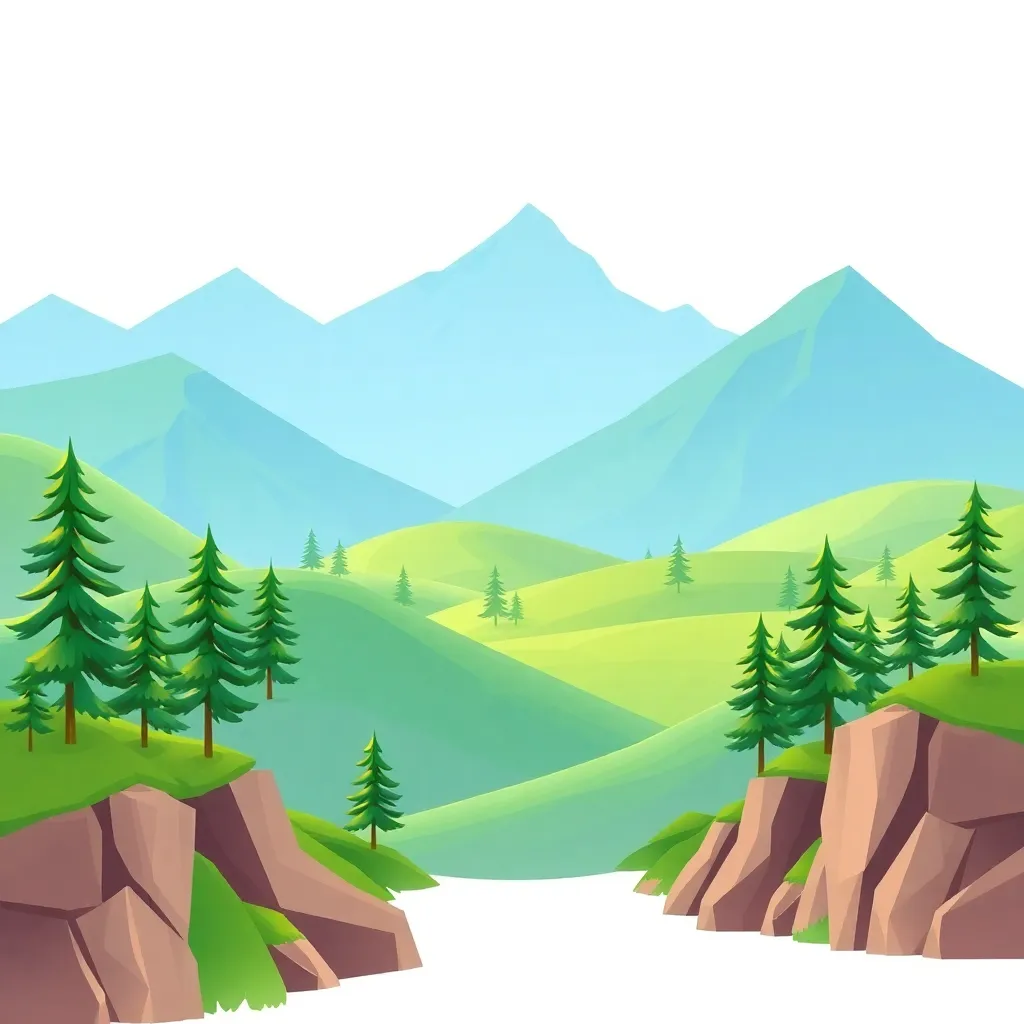
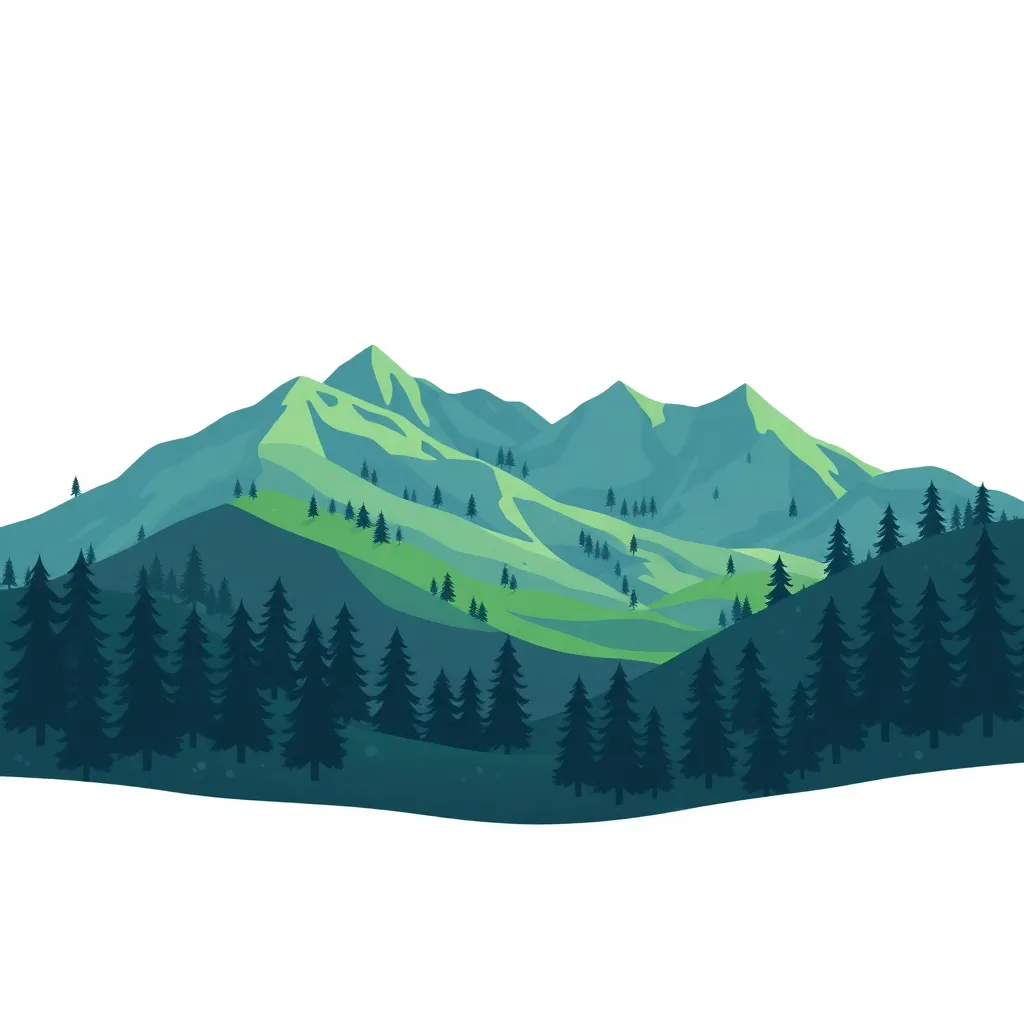
v2.4.1: Fix mountain wall - transparent background, better positioning

diff --git a/src/App.vue b/src/App.vue
@@ -67,7 +67,7 @@ import { RenderPass } from 'three/addons/postprocessing/RenderPass.js';
 import { UnrealBloomPass } from 'three/addons/postprocessing/UnrealBloomPass.js';
 
 // Version - Update this for each release
-const VERSION = 'v2.4.0 AI Graphics';
+const VERSION = 'v2.4.1 Mountain Fix';
 
 // Audio system
 let audioCtx = null;
@@ -545,21 +545,22 @@ const initGame = () => {
   
   // Load mountain texture for parallax
   textureLoader.load('assets/mountains.png', (tex) => {
-    const mtGeo = new THREE.PlaneGeometry(40, 8);
+    const mtGeo = new THREE.PlaneGeometry(60, 12);
     const mtMat = new THREE.MeshBasicMaterial({
       map: tex,
       transparent: true,
-      depthWrite: false
+      depthWrite: false,
+      side: THREE.DoubleSide
     });
     mountainMesh = new THREE.Mesh(mtGeo, mtMat);
-    mountainMesh.position.set(0, 4, -60);
+    mountainMesh.position.set(0, 3, -55);
     mountainMesh.renderOrder = -1;
     scene.add(mountainMesh);
     // Second mountain layer (further back, dimmer)
     const mt2 = new THREE.Mesh(mtGeo.clone(), mtMat.clone());
     mt2.material.opacity = 0.5;
     mt2.material.transparent = true;
-    mt2.position.set(0, 3, -80);
+    mt2.position.set(0, 4, -80);
     mt2.scale.set(1.5, 1.2, 1);
     scene.add(mt2);
   });